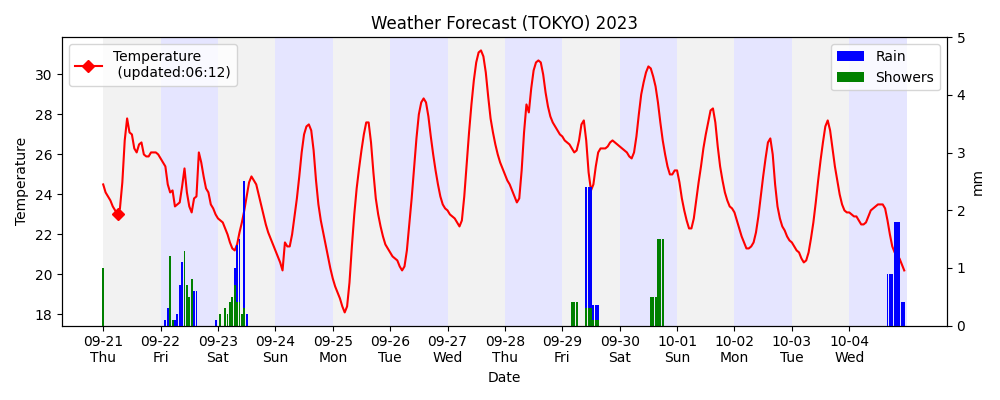
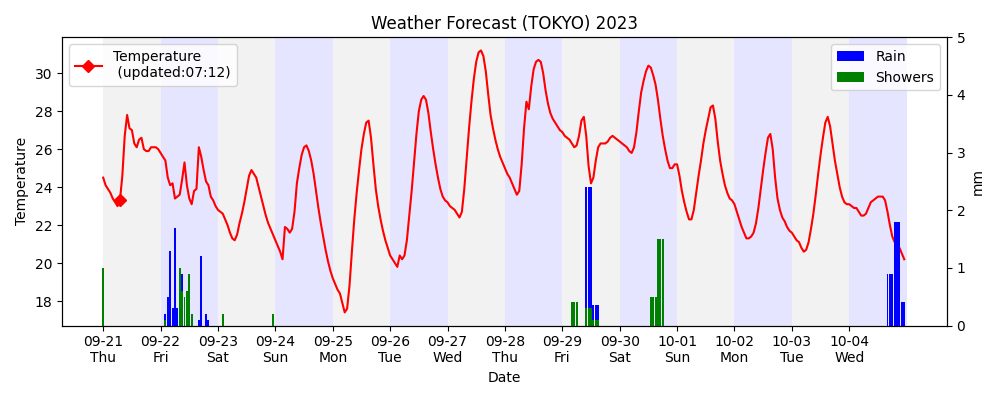
deploy: 9a220a92360ae25ed9bc403dc8168b265c89420d

diff --git a/docs/src/dashboard/forecast_text.html b/docs/src/dashboard/forecast_text.html
@@ -5,8 +5,10 @@
     
 </head>
 <body>
-    <h3>今日の天気 (09-20 Wed)</h3>
-    本日の東京の天気をお伝えします。現在の気温は25.4℃で、今後は24.7℃から30.3℃まで上昇する予報です。降水量は0.0mmで、今後はほとんど雨は降らないでしょう。ただし、15時ごろには0.3mmの局地的な小雨が予想されます。天候は、00時から04時までは晴れで、04時から18時は曇り、18時から23時は所により小雨や局地的な雷雨が見込まれます。皆さんは濡れないようにお気をつけください。それでは、良い一日をお過ごしください。
+    <h3>今日の天気 (09-21 Thu)</h3>
+    今日の天気予報です。
 
-    (更新：09/20 19:08)
+東京の天気は続々と晴れます。朝から夕方までは晴れで、最高気温は27.8℃になるでしょう。夜には一時的に雨が降る可能性がありますが、積極的な影響はありません。気温は25〜27℃の間で推移します。台風の接近はありません。引き続き、暑さ対策や適度な水分補給を心がけてください。
+
+    (更新：09/21 07:12)
 </html>

diff --git a/docs/src/dashboard/marketinfo.html b/docs/src/dashboard/marketinfo.html
@@ -28,12 +28,12 @@
         </tr>
         <tr>
             <td>USD/JPY</td>
-            <td>148.228</td>
-            <td>148.238</td>
-            <td>147.741</td>
+            <td>148.206</td>
+            <td>148.216</td>
+            <td>148.191</td>
             <td>147.47</td>
             <td>148.36795</td>
-            <td>2023-09-21 06:12:14</td>
+            <td>2023-09-21 07:12:54</td>
         </tr>
     </table>
 
